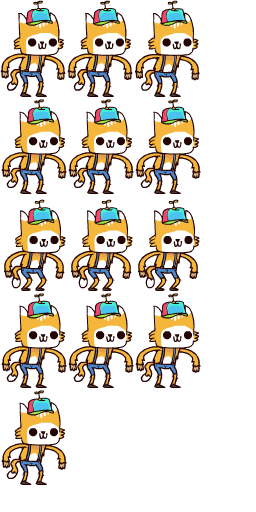
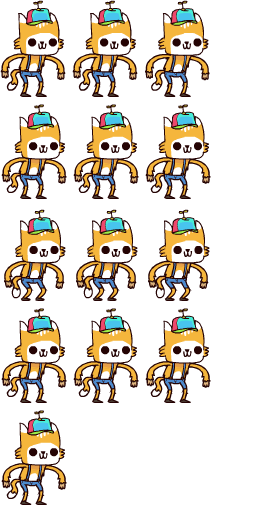
no message

diff --git a/js/Player.js b/js/Player.js
@@ -15,7 +15,7 @@ var Player = function (leftKey, rightKey, shootKey, jumpKey, meleeKey, useKey, m
 	this.maxMoveSpeed = maxMoveSpeed;
 	this.weight = weight;
 
-	this.height = 96;
+	
 	this.isOnGround = false;
 
 	this.attackRange = 20;
@@ -44,13 +44,8 @@ var Player = function (leftKey, rightKey, shootKey, jumpKey, meleeKey, useKey, m
  //    this.image.setTransform(-200, 90, 0.8, 0.8);
  //    this.image.framerate = 30;
 
-	this.gun = new Gun(GJ.getTargetFPS(), 6, 0, this, 0, 0);
+	this.gun = new Gun(GJ.getTargetFPS(), 6, 0, this, 0, -48);
 	this.gunType = GJ.Weapons.PLAYER_GUN;
-
-
-
-
-
 
 
 
@@ -64,20 +59,23 @@ var Player = function (leftKey, rightKey, shootKey, jumpKey, meleeKey, useKey, m
 		frames: [
 			// x, y, width, height, index, regX, regY
 			// the index needs to match the file with the sprites
-			[0,0,67,97,0,32.3,96.65],[67,0,67,97,0,32.3,96.65],[134,0,67,97,0,32.3,96.65],[0,97,67,97,0,32.3,96.65],[67,97,67,97,0,32.3,96.65],[134,97,67,97,0,32.3,96.65],[0,194,67,97,0,32.3,96.65],[67,194,67,97,0,32.3,96.65],[134,194,67,97,0,32.3,96.65],[0,291,67,97,0,32.3,96.65],[67,291,67,97,0,32.3,96.65],[134,291,67,97,0,32.3,96.65],[0,388,67,97,0,32.3,96.65],
+			[0,0,67,97,0,32.3,96.65],[72,0,67,97,0,32.3,96.65],[144,0,67,97,0,32.3,96.65],[0,102,67,97,0,32.3,96.65],[72,102,67,97,0,32.3,96.65],[144,102,67,97,0,32.3,96.65],[0,204,67,97,0,32.3,96.65],[72,204,67,97,0,32.3,96.65],[144,204,67,97,0,32.3,96.65],[0,306,67,97,0,32.3,96.65],[72,306,67,97,0,32.3,96.65],[144,306,67,97,0,32.3,96.65],[0,408,67,97,0,32.3,96.65],
 			[0,0,71,113,1,37.75,112.35],[71,0,71,113,1,37.75,112.35],[142,0,71,113,1,37.75,112.35],[213,0,71,113,1,37.75,112.35],[284,0,71,113,1,37.75,112.35],[355,0,71,113,1,37.75,112.35],[426,0,71,113,1,37.75,112.35],[0,113,71,113,1,37.75,112.35],[71,113,71,113,1,37.75,112.35],[142,113,71,113,1,37.75,112.35],[213,113,71,113,1,37.75,112.35],[284,113,71,113,1,37.75,112.35],[355,113,71,113,1,37.75,112.35],[426,113,71,113,1,37.75,112.35],[0,226,71,113,1,37.75,112.35],[71,226,71,113,1,37.75,112.35],[142,226,71,113,1,37.75,112.35]
 		],
 		animations: { 
 			idle: [0, 10],
 			run: [11, 27],
 			jump: [15, 15],
-			fall: [20, 20]
+			fall: [20, 20],
+			melee: [24, 24],
+			shoot: [27, 27]
 		}
 	});
 	this.image = new createjs.Sprite(data, 'idle');
 
 
 
+	this.height = this.image.getBounds().height;//48;
 
 	// this.image = new createjs.Shape();
 	// this.image.graphics.beginFill("red").drawCircle(0, 0, 50);
@@ -123,6 +121,7 @@ Player.prototype.update = function () {
 
 	this.checkWorldCollision();
 	this.applyVelocity();
+	
 };
 
 
@@ -245,7 +244,7 @@ Player.prototype.meleeAttack = function () {
 
 
 Player.prototype.jump = function () {
-	if (this.image.y + this.image.getBounds().height / 2 >= GJ.getCurrentWorld().getGroundHeight()) {
+	if (this.isOnGround) {
 		this.accelY = -20;
 		GJ.Sound.triggerEvent('footstep');
 
@@ -301,14 +300,24 @@ Player.prototype.checkActorCollision = function (actor) {
 
 
 Player.prototype.checkWorldCollision = function () {
-	var height = this.height / 2;//this.image.getBounds().height / 2;
+	var height = this.height;//this.image.getBounds().height / 2;
 
-	if (this.image.y >= GJ.getCurrentWorld().getGroundHeight() ) {
+	if (this.image.y + this.accelY >= GJ.getCurrentWorld().getGroundHeight() ) {
 		this.image.y = GJ.getCurrentWorld().getGroundHeight();
-		this.accelY = 0;
+
+		if (this.image.currentAnimation !== 'jump') {
+			this.accelY = 0;
+		}
+
 		this.isOnGround = true;
 	} else {
 		this.isOnGround = false;
 		// this.image.gotoAndPlay('fall');
+	}
+
+	if (this.image.x < 0) {
+		this.image.x = 0;
+	} else if (this.image.x > GJ.getCurrentWorld().getWorldWidth()) {
+		this.image.x = GJ.getCurrentWorld().getWorldWidth();
 	}
 };

diff --git a/js/GJ.Assets.js b/js/GJ.Assets.js
@@ -17,9 +17,15 @@ GJ.Assets = (function () {
 			{id: 'MainCharacterIdle', src:'img/MainCharacter/Idle.png'},
 			{id: 'MainCharacterRun', src:'img/MainCharacter/Run.png'},
 
+			// scene
+			{id: 'SceneCloud1', src:'img/Scene/Cloud1.png'},
+			{id: 'SceneCloud2', src:'img/Scene/Cloud2.png'},
+			{id: 'SceneCloud3', src:'img/Scene/Cloud3.png'},
+
 			{id: 'sprite1', src:'img/sprite1.jpg'},
 			{id: 'sprite2', src:'img/sprite2.jpg'},
 			{id: 'sprite3', src:'img/sprite3.jpg'},
+			
 			{id: 'amb_birdsong', src:'audio/amb_birdsong.ogg', data: 4},
 			{id: 'footstep_grass_01', src:'audio/footstep_grass_01.ogg', data: 4},
 			{id: 'footstep_grass_02', src:'audio/footstep_grass_02.ogg', data: 4},
@@ -51,36 +57,6 @@ GJ.Assets = (function () {
 	};
 
 
-	var buildSpritesheets = function () {
-		// var data;
-
-		// data = new createjs.SpriteSheet({images: ["ExplosionSmall.png"], frames: [[0,0,111,89,0,35.25,36],[111,0,111,89,0,35.25,36],[222,0,111,89,0,35.25,36],[333,0,111,89,0,35.25,36],[0,89,111,89,0,35.25,36],[111,89,111,89,0,35.25,36],[222,89,111,89,0,35.25,36],[333,89,111,89,0,35.25,36],[0,178,111,89,0,35.25,36],[111,178,111,89,0,35.25,36],[222,178,111,89,0,35.25,36],[333,178,111,89,0,35.25,36],[0,267,111,89,0,35.25,36],[111,267,111,89,0,35.25,36],[222,267,111,89,0,35.25,36],[333,267,111,89,0,35.25,36],[0,356,111,89,0,35.25,36],[111,356,111,89,0,35.25,36],[222,356,111,89,0,35.25,36],[333,356,111,89,0,35.25,36],[0,445,111,89,0,35.25,36],[111,445,111,89,0,35.25,36],[222,445,111,89,0,35.25,36],[333,445,111,89,0,35.25,36],[0,534,111,89,0,35.25,36],[111,534,111,89,0,35.25,36],[222,534,111,89,0,35.25,36],[333,534,111,89,0,35.25,36],[0,623,111,89,0,35.25,36],[111,623,111,89,0,35.25,36]]});
-		// data = new createjs.SpriteSheet({
-		//     'images': [GJ.Assets.get('ExplosionSmall')],
-		//     'frames': {
-		//     	'regX': 0, 
-		//     	'height': 292, 
-		//     	'count': 64, 
-		//     	'regY': 0, 
-		//     	'width': 165
-		//     },
-		//     // define two animations, run (loops, 1.5x speed) and jump (returns to run):
-		//     'animations': {
-		//     	'run': [0, 25, 'run', 1.5], 
-		//     	'jump': [26, 63, 'run'],
-		//     	'idle': [0, 0]
-		//     }
-	 //    });
-	    // this.image = new createjs.Sprite(data, "run");
-	    // this.image.setTransform(-200, 90, 0.8, 0.8);
-	    // this.image.framerate = 30;
-
-	    
-
-	};
-
-
-
 	// Public methods /////////////////////////////////////////////
 
 	return {
@@ -94,7 +70,6 @@ GJ.Assets = (function () {
 		},
 
 		loadComplete: function () {
-			buildSpritesheets();
 			GJ.assetsReady();
 		},
 

diff --git a/img/MainCharacter/Idle.js b/img/MainCharacter/Idle.js
@@ -2,7 +2,7 @@
 IdleCat_instance_1 = function() {
 	this.initialize();
 }
-IdleCat_instance_1._SpriteSheet = new createjs.SpriteSheet({images: ["Idle.png"], frames: [[0,0,67,97,0,32.3,96.65],[67,0,67,97,0,32.3,96.65],[134,0,67,97,0,32.3,96.65],[0,97,67,97,0,32.3,96.65],[67,97,67,97,0,32.3,96.65],[134,97,67,97,0,32.3,96.65],[0,194,67,97,0,32.3,96.65],[67,194,67,97,0,32.3,96.65],[134,194,67,97,0,32.3,96.65],[0,291,67,97,0,32.3,96.65],[67,291,67,97,0,32.3,96.65],[134,291,67,97,0,32.3,96.65],[0,388,67,97,0,32.3,96.65]]});
+IdleCat_instance_1._SpriteSheet = new createjs.SpriteSheet({images: ["Idle_5pxshapeBorder.png"], frames: [[0,0,67,97,0,32.3,96.65],[72,0,67,97,0,32.3,96.65],[144,0,67,97,0,32.3,96.65],[0,102,67,97,0,32.3,96.65],[72,102,67,97,0,32.3,96.65],[144,102,67,97,0,32.3,96.65],[0,204,67,97,0,32.3,96.65],[72,204,67,97,0,32.3,96.65],[144,204,67,97,0,32.3,96.65],[0,306,67,97,0,32.3,96.65],[72,306,67,97,0,32.3,96.65],[144,306,67,97,0,32.3,96.65],[0,408,67,97,0,32.3,96.65]]});
 var IdleCat_instance_1_p = IdleCat_instance_1.prototype = new createjs.BitmapAnimation();
 IdleCat_instance_1_p.BitmapAnimation_initialize = IdleCat_instance_1_p.initialize;
 IdleCat_instance_1_p.initialize = function() {
